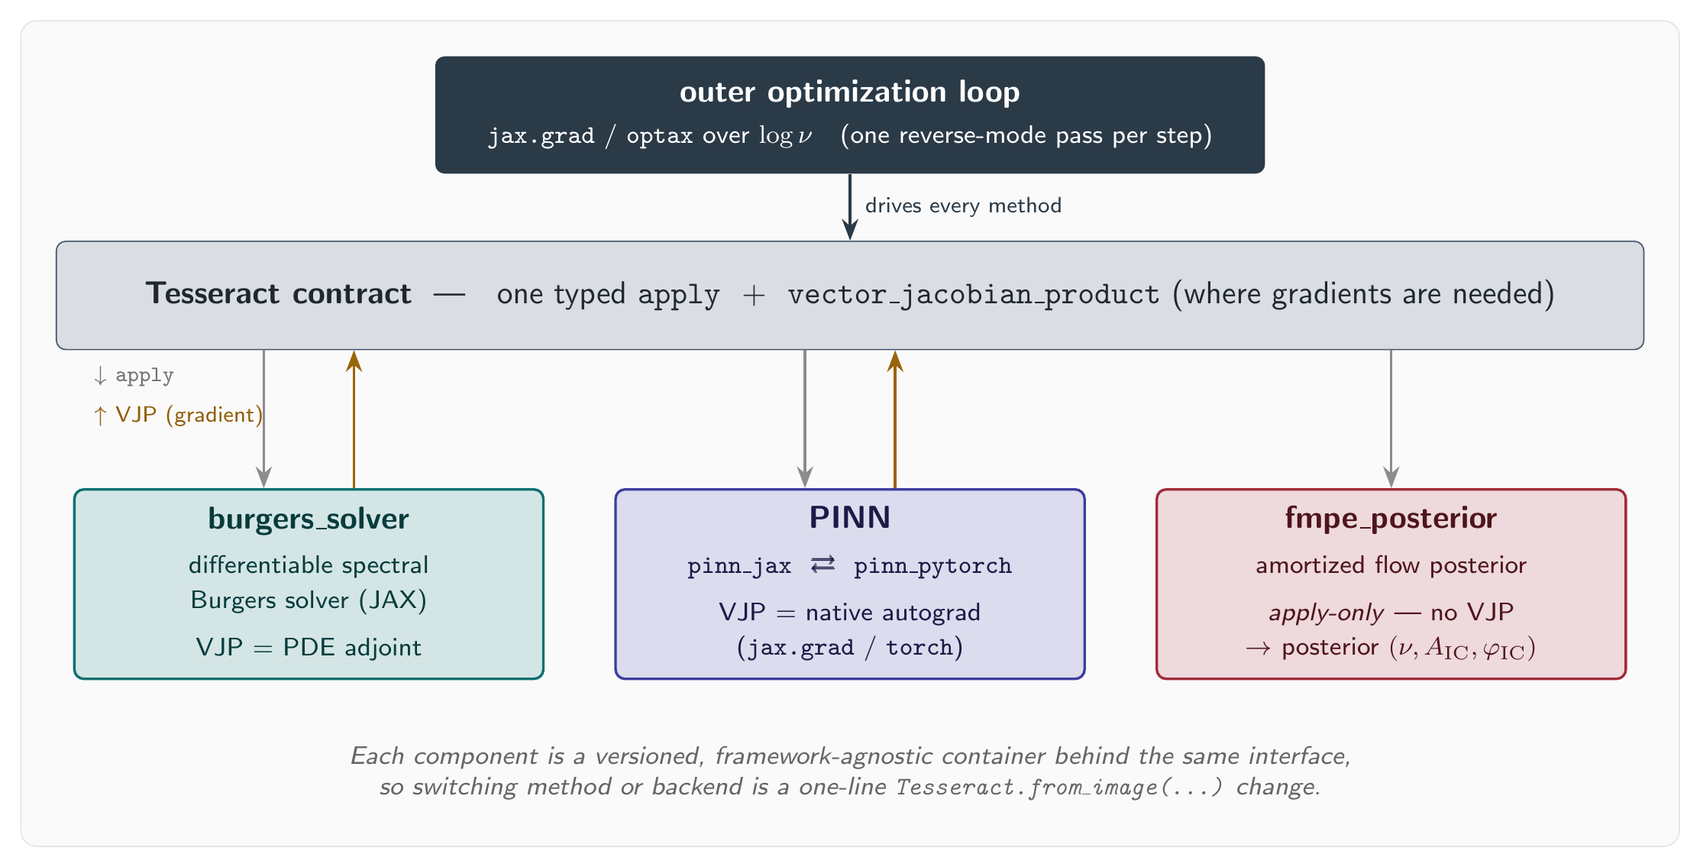
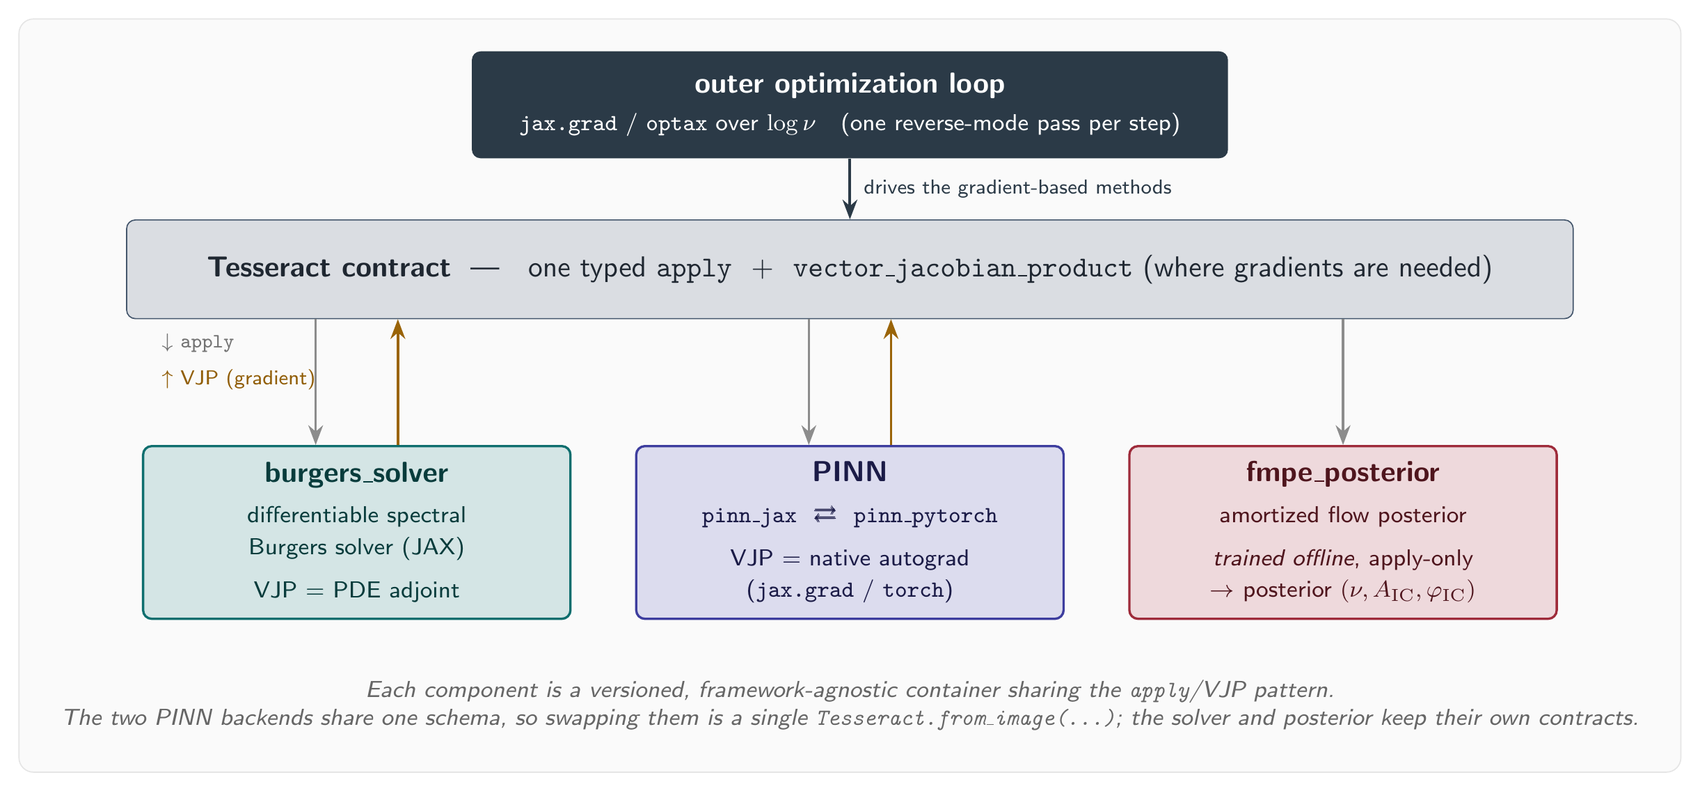
docs: correct two overclaims in README and system diagram
Audited the claims against the code:
- Only pinn_jax and pinn_pytorch share one schema (literal drop-in). The
  solver and fmpe_posterior declare different contracts; say so instead of
  implying all three are interchangeable under one interface.
- The jax.grad/optax outer loop drives only the solver-adjoint and PINN
  methods. FMPE is trained offline with sbi and queried apply-only, so it no
  longer reads as driven by that loop (README text, diagram label, caption,
  and alt text all corrected).

diff --git a/docs/system_architecture.tex b/docs/system_architecture.tex
@@ -49,7 +49,7 @@
    are needed)};
 
 \draw[applyarr, draw=cLoop, line width=1pt] (loop) -- (bar)
-  node[midway, right=1pt, tag, text=cLoop] {drives every method};
+  node[midway, right=1pt, tag, text=cLoop] {drives the gradient-based methods};
 
 % ---- Three swappable components ---------------------------------------
 \node[comp, fill=cSolver!18, draw=cSolver, text=cSolver!55!black] (solver) at (3,0.2)
@@ -67,7 +67,7 @@
 \node[comp, fill=cFmpe!18, draw=cFmpe, text=cFmpe!50!black] (fmpe) at (15,0.2)
   {\textbf{fmpe\_posterior}\\[2pt]
    \footnotesize amortized flow posterior\\[3pt]
-   \footnotesize \emph{apply-only} --- no VJP\\[-1pt]
+   \footnotesize \emph{trained offline}, apply-only\\[-1pt]
    \footnotesize $\rightarrow$ posterior $(\nu, A_{\mathrm{IC}}, \varphi_{\mathrm{IC}})$};
 
 % ---- apply (down) / VJP (up) connectors -------------------------------
@@ -87,9 +87,10 @@
 % ---- swappability caption ---------------------------------------------
 \node[font=\sffamily\footnotesize\itshape, text=black!60, align=center]
   (cap) at (9,-1.9)
-  {Each component is a versioned, framework-agnostic container behind the same
-   interface,\\ so switching method or backend is a one-line
-   \texttt{Tesseract.from\_image(...)} change.};
+  {Each component is a versioned, framework-agnostic container sharing the
+   \texttt{apply}/VJP pattern.\\ The two PINN backends share one schema, so swapping them
+   is a single \texttt{Tesseract.from\_image(...)}; the solver and posterior keep their
+   own contracts.};
 
 \begin{scope}[on background layer]
   \node[rounded corners=5pt, fill=black!2, draw=black!10,

diff --git a/README.md b/README.md
@@ -59,41 +59,46 @@ gives the other two methods a near-exact reference to check against.
 
 ## What this repo does
 
-Each of those three methods is packaged as a
-[Tesseract](https://github.com/pasteurlabs/tesseract-core): a container exposing a
-typed `apply` interface plus a `vector_jacobian_product` where gradients are needed.
-Every method uses that same interface, so switching between them (a JAX component for
-a PyTorch one, or a point estimate for a full posterior) is a one-liner that
-leaves the optimization loop untouched!:
+Each of the three methods is packaged as a
+[Tesseract](https://github.com/pasteurlabs/tesseract-core): a container with a typed
+`apply` interface, plus a `vector_jacobian_product` for the components that are
+differentiated. They share that `apply`/VJP *pattern*, but each declares its own schema:
+the solver takes `(nu, grid, ...)`, the PINN takes `(x, t, params_flat)`, and the
+posterior takes one observation vector.
+
+The two PINN backends are the one literal drop-in. They expose an identical schema, so
+switching JAX for PyTorch is a single image name with nothing else changed:
 
 ```python
 pinn = Tesseract.from_image("pinn_jax")      # JAX / Equinox
 pinn = Tesseract.from_image("pinn_pytorch")  # PyTorch; nothing else changes, same ν
 ```
 
-That swappability is the overall goal. One `jax.grad`-based outer loop drives the JAX
-solver, the JAX or PyTorch PINN, and the flow-matching posterior neural net, because each is a
-versioned, framework-agnostic component behind the same contract.
+Two of the three methods also share one outer loop: solver-adjoint and PINN both
+optimize `log ν` by differentiating through their component's VJP with `jax.grad` and
+`optax`. The FMPE posterior sits outside that loop. It is trained offline with `sbi` and
+queried apply-only at inference (no gradient, no `log ν` step), and ships as the same
+kind of versioned, framework-agnostic component.
 
 <p align="center">
   <img src="img/system_architecture.png" width="880"
-       alt="One outer optimization loop drives three swappable Tesseract components (the JAX Burgers solver, the JAX/PyTorch PINN, and the apply-only FMPE posterior) behind one typed apply plus VJP interface">
+       alt="A jax.grad outer loop optimizes log-nu through the differentiable components (the JAX Burgers solver and the JAX/PyTorch PINN) via the shared apply/VJP interface; the apply-only FMPE posterior is trained offline and queried for samples">
 </p>
 
-Each component is a versioned container with a typed IO schema and VJP/JVP endpoints.
-The JAX loop differentiates through a PyTorch model in a separate runtime, and you can
-pin a component to a version or serve it remotely without touching the caller. The swap
-is one image name because the loop depends only on the contract.
+Each component is a versioned container with a typed IO schema, and the differentiable
+ones add VJP/JVP endpoints. The JAX loop differentiates through a PyTorch PINN running in
+a separate runtime, and you can pin a component to a version or serve it remotely without
+touching the caller.
 
 ### Scalability
 
-The outer loop never refers to Burgers equation. It differentiates a parameter through a
-Tesseract's `apply`/VJP, so it drives any differentiable forward model, from another PDE
-to a renderer. Point it at a new simulator with its own typed inputs and the
+The outer loop never refers to the Burgers equation. It differentiates a parameter
+through a Tesseract's `apply`/VJP, so it drives any differentiable forward model, from
+another PDE to a renderer. Point it at a new simulator with its own typed inputs and the
 solver-adjoint method carries over; the PINN and posterior methods reuse the same
-surrogate and amortized-inference recipe. You rewrite only the physics problem (the forward
+surrogate and amortized-inference recipe. You rewrite only the physics (the forward
 model, the network or prior, the sensor layout, the calibration); the loop and the
-same contract is intact.
+`apply`/VJP contract stay the same.
 
 ## Quickstart
 
